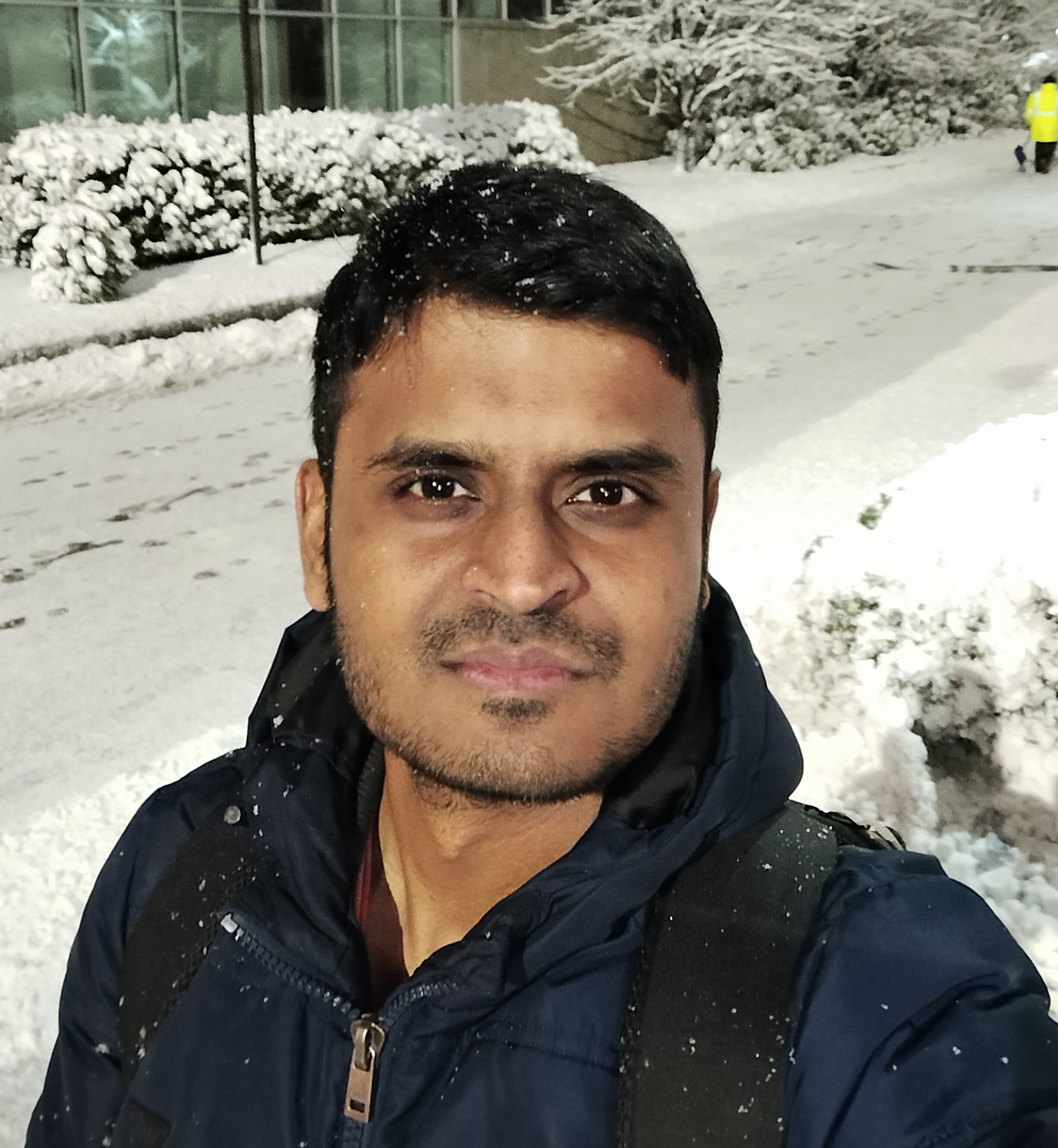
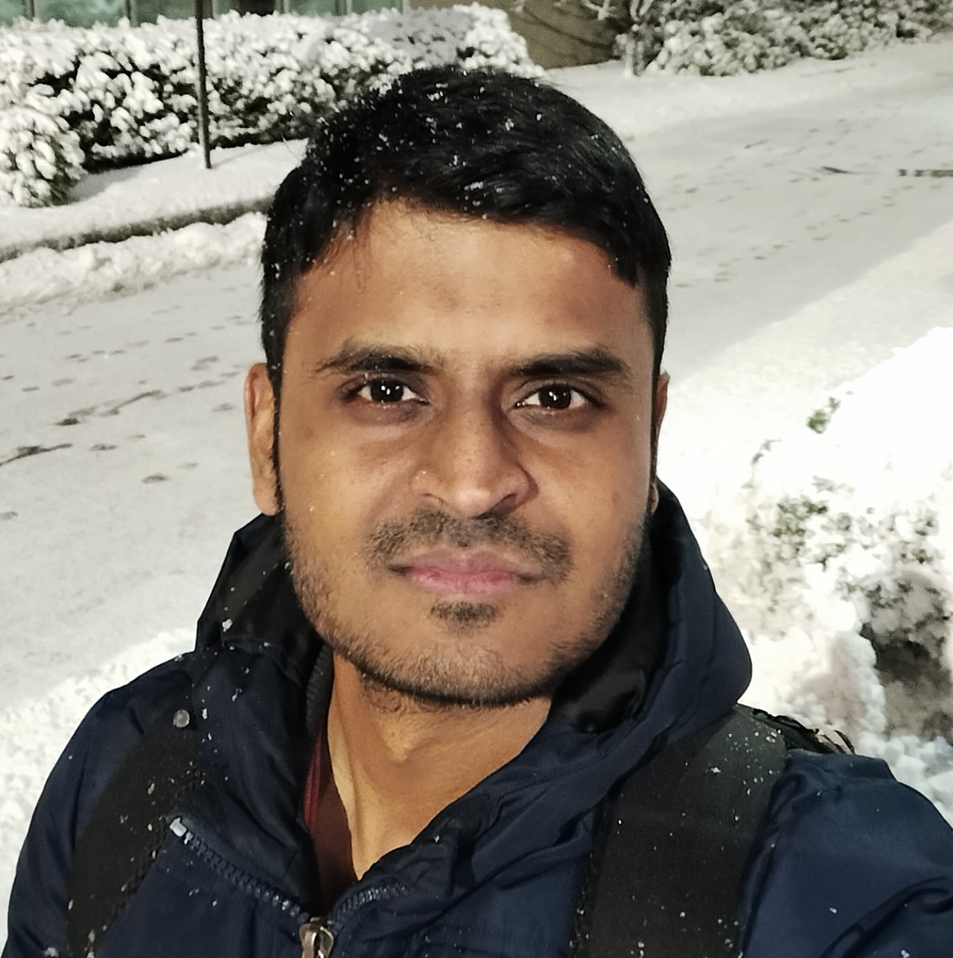
updated headshot

diff --git a/index.html b/index.html
@@ -61,7 +61,7 @@
         <div class="main-container">
             <div class="header-wrapper">
                 <div class="left-column">
-                    <img src="../assets/images/headshot1.png" alt="Rak Lokesh" class="avatar" />
+                    <img src="../assets/images/headshot2.jpg" alt="Rak Lokesh" class="avatar" />
                     <div class="info-box">
                         <h3><i class="fas fa-briefcase"></i> <span>Research Associate</span></h3>
                         <h3><i class="fas fa-university"></i> <span>Northeastern University</span></h3>
